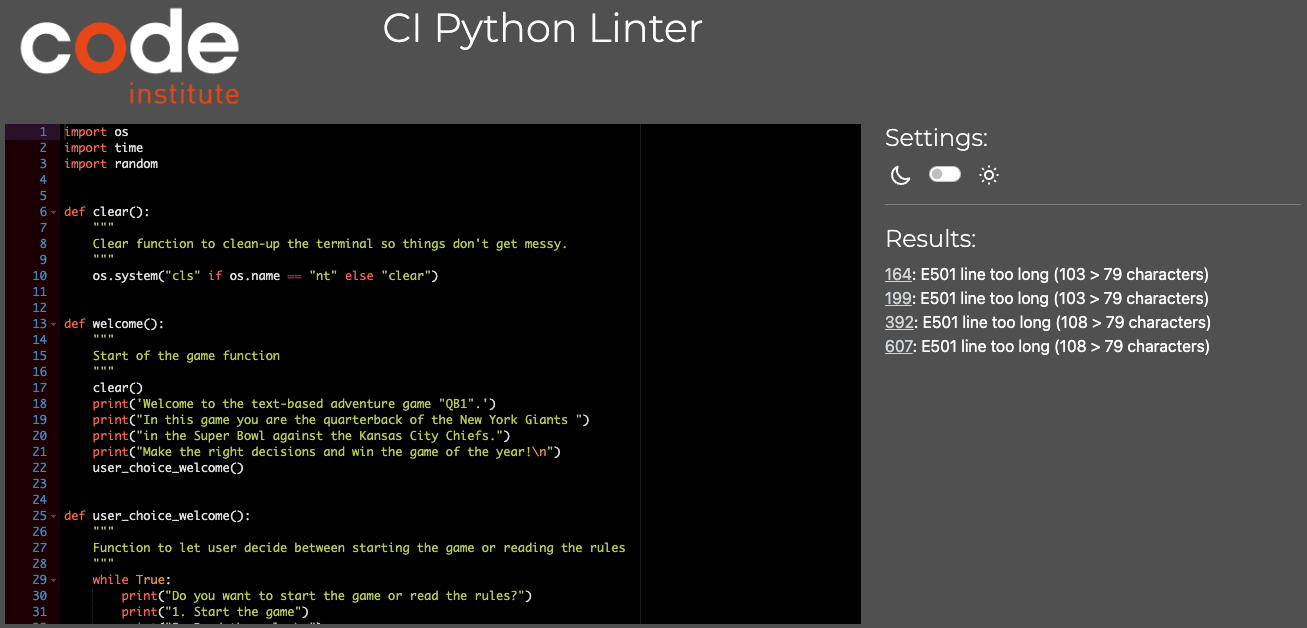
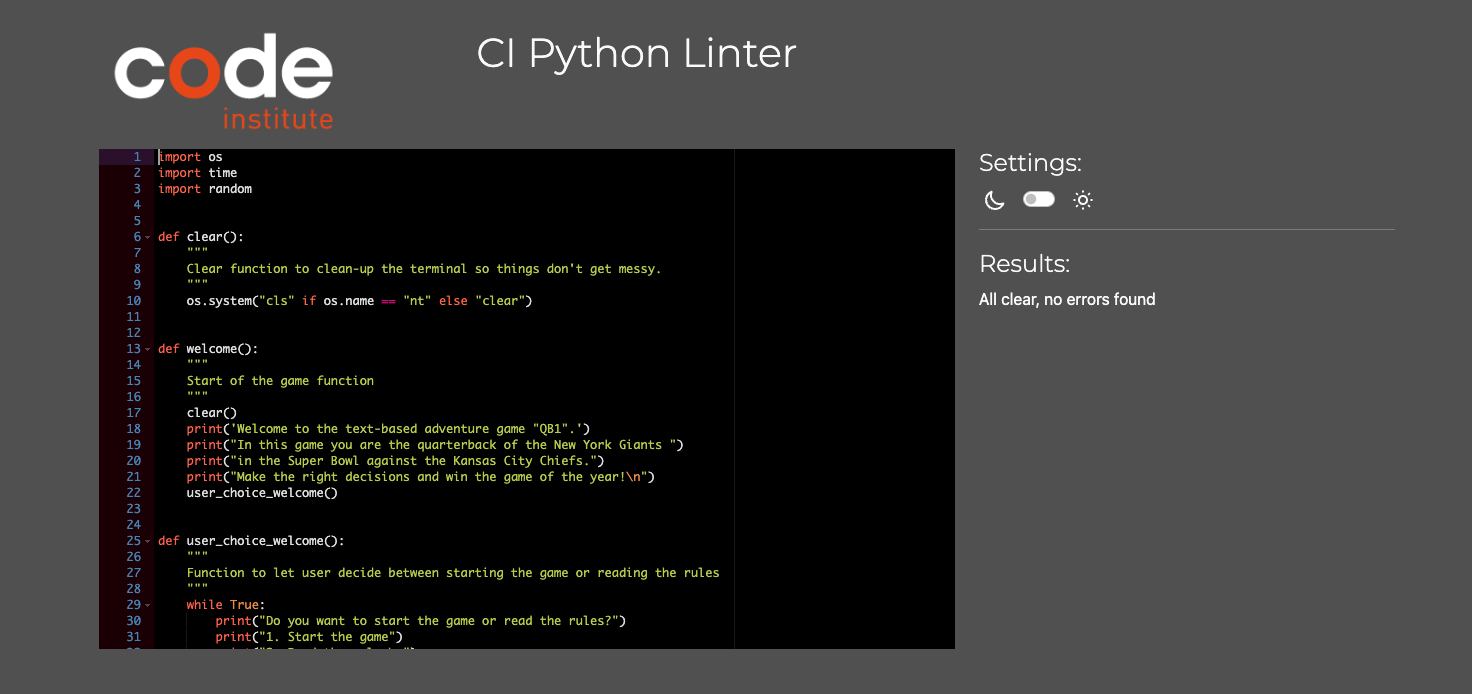
Update code validation section

Changed region(s): [[0.0, 0.0, 0.9487, 0.9984], [0.306, 0.0303, 0.5509, 0.121]]

diff --git a/TESTING.md b/TESTING.md
@@ -13,7 +13,7 @@ I have used the recommended [PEP8 CI Python Linter](https://pep8ci.herokuapp.com
 
 | File | CI URL | Screenshot | Notes |
 | --- | --- | --- | --- |
-| run.py | [PEP8 CI](https://pep8ci.herokuapp.com/https://raw.githubusercontent.com/firstnamejonas/textbased-quarterback-game/main/run.py) | ![screenshot](documentation/py-validation-run.png) | Click here for [Unfixed Bugs](#unfixed-bugs)!|
+| run.py | [PEP8 CI](https://pep8ci.herokuapp.com/https://raw.githubusercontent.com/firstnamejonas/textbased-quarterback-game/main/run.py) | ![screenshot](documentation/py-validation-run.png) | All clear, no errors found. |
 
 
 ## Browser Compatibility
